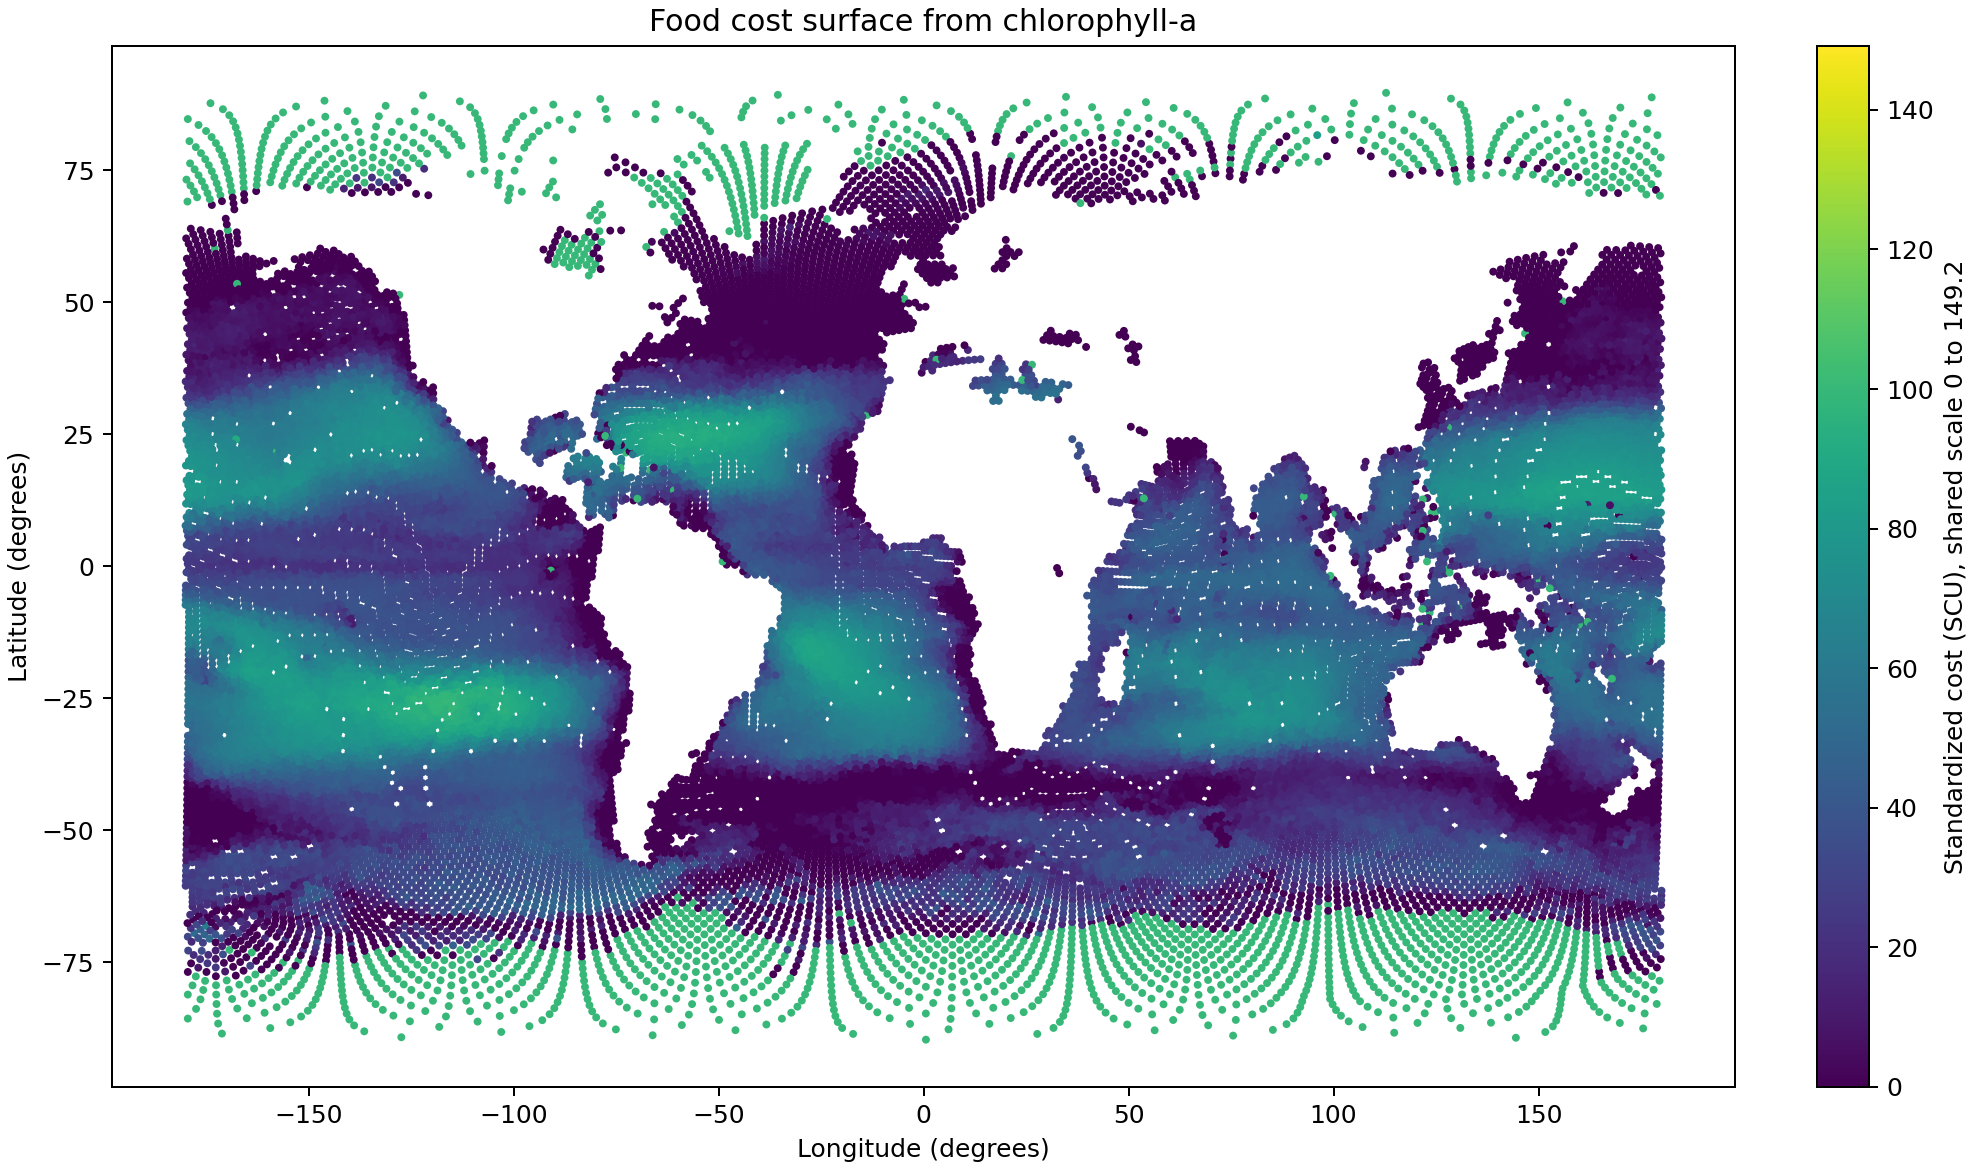
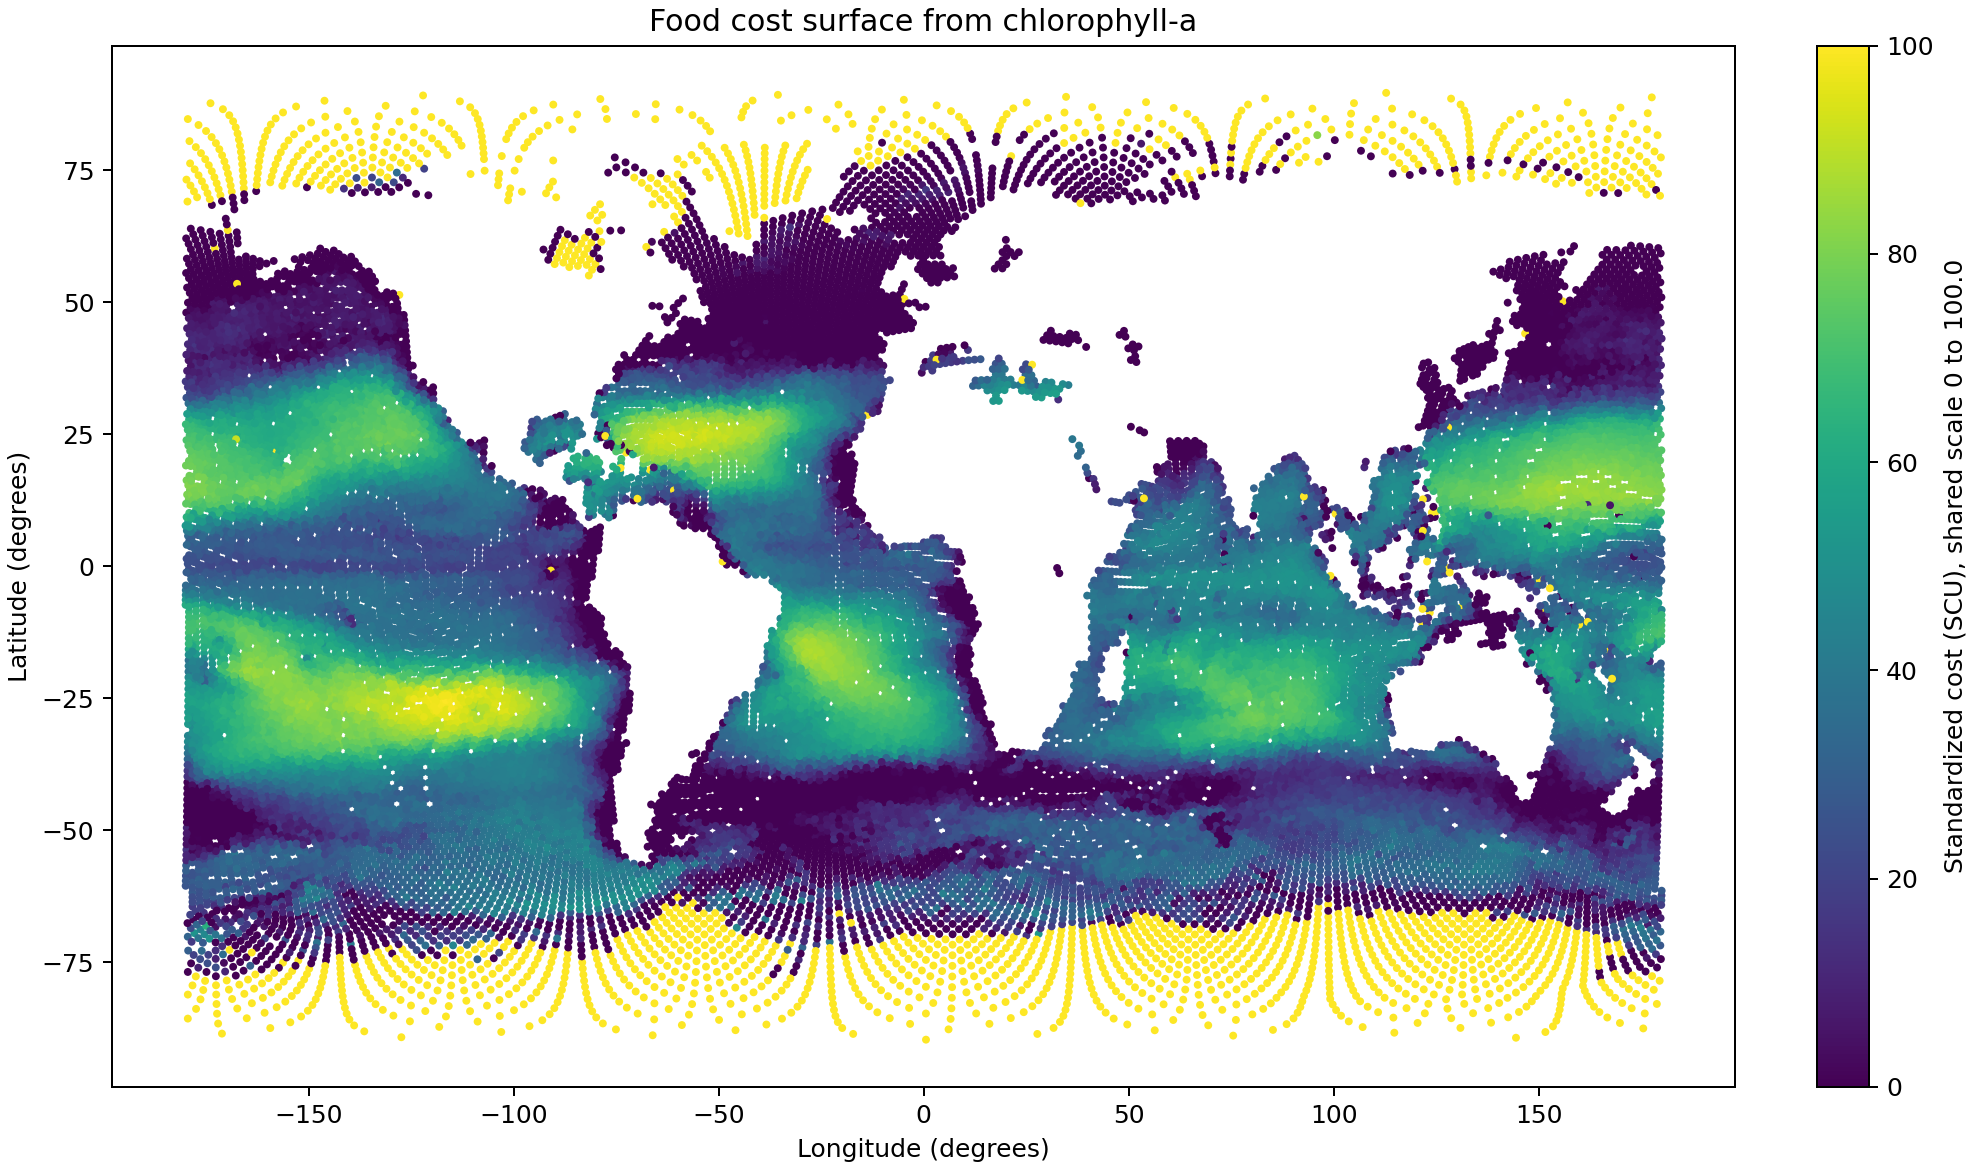
Add directional distance diagnostic and P99 map scaling

diff --git a/src/scripts/11_compute_h3_cost_components.py b/src/scripts/11_compute_h3_cost_components.py
@@ -37,10 +37,12 @@ ENV_PATH = PROJECT_ROOT / "data" / "processed" / "grids" / "h3_environment_res3.
 OUTPUT_PATH = PROJECT_ROOT / "data" / "processed" / "grids" / "h3_edge_cost_components_res3.csv"
 SUMMARY_PATH = PROJECT_ROOT / "results" / "tables" / "11_compute_h3_cost_components_summary.csv"
 EXAMPLE_PATH = PROJECT_ROOT / "results" / "tables" / "11_compute_h3_cost_components_example_rows.csv"
+DIRECTIONAL_DISTANCE_PATH = PROJECT_ROOT / "results" / "tables" / "11_directional_edge_distance_summary.csv"
 REPORT_PATH = PROJECT_ROOT / "results" / "reports" / "11_compute-h3-cost-components.md"
 RAW_HIST_PATH = PROJECT_ROOT / "results" / "figures" / "11_raw_component_histograms.png"
 STD_HIST_PATH = PROJECT_ROOT / "results" / "figures" / "11_standardized_component_histograms.png"
 SCATTER_PATH = PROJECT_ROOT / "results" / "figures" / "11_wind_vs_crosswind_scatter.png"
+DIRECTIONAL_DISTANCE_FIGURE_PATH = PROJECT_ROOT / "results" / "figures" / "11_directional_edge_distance_by_bearing.png"
 MAP_WIND_PATH = PROJECT_ROOT / "results" / "figures" / "11_map_parallel_wind_cost_northward.png"
 MAP_CROSSWIND_PATH = PROJECT_ROOT / "results" / "figures" / "11_map_crosswind_cost_northward.png"
 MAP_DISTANCE_PATH = PROJECT_ROOT / "results" / "figures" / "11_map_distance_cost.png"
@@ -134,6 +136,22 @@ def select_northward_edge_distance(edge_df: pd.DataFrame) -> pd.Series:
     return pd.Series(best_north["edge_distance_km"].to_numpy(), index=best_north["source_h3"].to_numpy())
 
 
+def summarize_directional_distance(edge_df: pd.DataFrame) -> pd.DataFrame:
+    bearing_labels = ["N", "NE", "E", "SE", "S", "SW", "W", "NW"]
+    sector = ((edge_df["edge_bearing_deg"] + 22.5) % 360 // 45).astype(int)
+    out = edge_df[["edge_bearing_deg", "edge_distance_km", "source_lat"]].copy()
+    out["bearing_sector"] = [bearing_labels[i] for i in sector]
+    out["latitude_band"] = (np.floor(out["source_lat"] / 10) * 10).astype(int)
+
+    summary = (
+        out.groupby(["latitude_band", "bearing_sector"])["edge_distance_km"]
+        .agg(["count", "mean", "median", "min", "max"])
+        .reset_index()
+        .sort_values(["latitude_band", "bearing_sector"])
+    )
+    return summary
+
+
 def main() -> None:
     df = pd.read_csv(EDGE_ENV_PATH)
     env = pd.read_csv(ENV_PATH)
@@ -185,6 +203,9 @@ def main() -> None:
     pd.DataFrame(summary_rows).to_csv(SUMMARY_PATH, index=False)
     out.head(40).to_csv(EXAMPLE_PATH, index=False)
 
+    directional_distance = summarize_directional_distance(out)
+    directional_distance.to_csv(DIRECTIONAL_DISTANCE_PATH, index=False)
+
     fig, axes = plt.subplots(2, 2, figsize=(10, 7), constrained_layout=True)
     for ax, col, title in zip(axes.ravel(), ["parallel_wind_cost_raw", "crosswind_cost_raw", "distance_cost_raw", "food_cost_raw"], ["Raw parallel wind cost", "Raw crosswind cost", "Raw distance cost", "Raw food cost"]):
         ax.hist(out[col].dropna(), bins=40, alpha=0.8)
@@ -210,6 +231,16 @@ def main() -> None:
     ax.set_xlabel("w_cost")
     ax.set_ylabel("c_cost")
     fig.savefig(SCATTER_PATH, dpi=150)
+    plt.close(fig)
+
+    fig, ax = plt.subplots(figsize=(10, 5.5), constrained_layout=True)
+    for label, group in directional_distance.groupby("bearing_sector"):
+        ax.plot(group["latitude_band"], group["mean"], marker="o", linewidth=1.5, label=label)
+    ax.set_title("Mean edge distance by bearing sector and latitude band")
+    ax.set_xlabel("Latitude band (degrees)")
+    ax.set_ylabel("Mean edge distance (km)")
+    ax.legend(title="Bearing sector", ncol=4, fontsize=8)
+    fig.savefig(DIRECTIONAL_DISTANCE_FIGURE_PATH, dpi=160)
     plt.close(fig)
 
     # Component maps at cell level. For visualization, use the wind footprint as the support mask.
@@ -242,7 +273,7 @@ def main() -> None:
         env_map.loc[~env_map["has_wind_support"], col] = np.nan
 
     map_max = float(
-        np.nanmax(
+        np.nanpercentile(
             env_map[
                 [
                     "parallel_wind_cost_northward_std",
@@ -250,7 +281,8 @@ def main() -> None:
                     "distance_cost_std",
                     "food_cost_std",
                 ]
-            ].to_numpy()
+            ].to_numpy(),
+            99,
         )
     )
 
@@ -323,7 +355,7 @@ Audit values:
 - zero or non-positive chlorophyll cells in H3 table: **{zero_chla_count}**
 - positive chlorophyll floor used for the log transform: **{positive_floor:.8f}**
 - cells outside the common wind-supported map footprint: **{missing_support_count}**
-- shared map color scale maximum: **{map_max:.3f} SCU**
+- shared map color scale maximum (P99 cap across displayed map layers): **{map_max:.3f} SCU**
 
 ## Method
 - compute directional edge costs for parallel wind, crosswind, true distance, and food
@@ -332,7 +364,8 @@ Audit values:
 - for the two wind component maps, assume a bird flying in a straight northward direction everywhere
 - for the distance map, assign to each cell the true distance of the outgoing edge whose bearing is closest to north
 - for visualization only, use the wind-data footprint as a common support mask across all four maps so unsupported cells are not mistaken for valid low or high costs
-- apply one shared color scale across all four maps, starting at 0 and ending at the maximum standardized cost present among the displayed map layers
+- apply one shared color scale across all four maps, starting at 0 and ending at the shared P99 of the displayed standardized map values
+- summarize edge distance by bearing sector and latitude band to check whether visible distance-map patterns reflect real directional anisotropy in the graph
 
 ## Key formulas used
 - movement direction comes from the edge bearing for the edge-level table
@@ -352,6 +385,7 @@ Audit values:
   - `results/figures/11_raw_component_histograms.png`
   - `results/figures/11_standardized_component_histograms.png`
   - `results/figures/11_wind_vs_crosswind_scatter.png`
+  - `results/figures/11_directional_edge_distance_by_bearing.png`
   - `results/figures/11_map_parallel_wind_cost_northward.png`
   - `results/figures/11_map_crosswind_cost_northward.png`
   - `results/figures/11_map_distance_cost.png`
@@ -364,6 +398,8 @@ Audit values:
 ![Standardized component histograms](../figures/11_standardized_component_histograms.png)
 
 ![Wind vs crosswind standardized costs](../figures/11_wind_vs_crosswind_scatter.png)
+
+![Directional edge distance by bearing](../figures/11_directional_edge_distance_by_bearing.png)
 
 ![Parallel wind cost map](../figures/11_map_parallel_wind_cost_northward.png)
 
@@ -385,11 +421,14 @@ For the distance map, each cell is assigned the true distance of its outgoing ed
 
 The pole issue in the earlier food map was not something I was happy with. It mixed genuinely poor-food cells with cells that simply lie outside the shared environmental support. Using the wind footprint as a visualization mask is the right fix for the maps, because it prevents unsupported cells from being visually interpreted as real food-cost values.
 
+The directional distance diagnostic helps interpret the odd blue corridor patterns in the northward distance map. Those patterns are partly a consequence of selecting a single outgoing edge per cell for display, but the bearing-by-latitude summary lets us check whether there is also real directional variation in edge distances in the H3 graph.
+
 ## Points to watch
 - the distance component in the routing model still represents true H3 edge length, which is an intentional refinement relative to the legacy constant-per-step distance term
 - the mapped northward distance surface is a separate diagnostic layer for interpretability, based on a real outgoing northward edge per cell
 - the common wind-footprint mask is a visualization choice for consistency and honesty across maps, not yet a modeling exclusion rule
-- the shared color scale makes map-to-map magnitude comparisons easier, but it also compresses contrast in components whose ranges are naturally narrower; that tradeoff is worth it here because you explicitly want comparability
+- the shared P99-capped color scale makes map-to-map magnitude comparisons easier while preserving more contrast than a raw-maximum scale
+- if the directional distance summary shows strong systematic bearing effects, we should keep that in mind when interpreting later Dijkstra behavior
 - the legacy constant distance reference extracted from the standardized wind term is **{legacy_ref:.3f}**, which provides a direct bridge back to the earlier formulation
 - the visual wind maps are diagnostic surfaces, not replacements for the directional edge-level calculations
 

diff --git a/results/reports/11_compute-h3-cost-components.md b/results/reports/11_compute-h3-cost-components.md
@@ -26,7 +26,7 @@ Audit values:
 - zero or non-positive chlorophyll cells in H3 table: **1869**
 - positive chlorophyll floor used for the log transform: **0.02446900**
 - cells outside the common wind-supported map footprint: **11633**
-- shared map color scale maximum: **149.219 SCU**
+- shared map color scale maximum (P99 cap across displayed map layers): **100.000 SCU**
 
 ## Method
 - compute directional edge costs for parallel wind, crosswind, true distance, and food
@@ -35,7 +35,8 @@ Audit values:
 - for the two wind component maps, assume a bird flying in a straight northward direction everywhere
 - for the distance map, assign to each cell the true distance of the outgoing edge whose bearing is closest to north
 - for visualization only, use the wind-data footprint as a common support mask across all four maps so unsupported cells are not mistaken for valid low or high costs
-- apply one shared color scale across all four maps, starting at 0 and ending at the maximum standardized cost present among the displayed map layers
+- apply one shared color scale across all four maps, starting at 0 and ending at the shared P99 of the displayed standardized map values
+- summarize edge distance by bearing sector and latitude band to check whether visible distance-map patterns reflect real directional anisotropy in the graph
 
 ## Key formulas used
 - movement direction comes from the edge bearing for the edge-level table
@@ -55,6 +56,7 @@ Audit values:
   - `results/figures/11_raw_component_histograms.png`
   - `results/figures/11_standardized_component_histograms.png`
   - `results/figures/11_wind_vs_crosswind_scatter.png`
+  - `results/figures/11_directional_edge_distance_by_bearing.png`
   - `results/figures/11_map_parallel_wind_cost_northward.png`
   - `results/figures/11_map_crosswind_cost_northward.png`
   - `results/figures/11_map_distance_cost.png`
@@ -67,6 +69,8 @@ Audit values:
 ![Standardized component histograms](../figures/11_standardized_component_histograms.png)
 
 ![Wind vs crosswind standardized costs](../figures/11_wind_vs_crosswind_scatter.png)
+
+![Directional edge distance by bearing](../figures/11_directional_edge_distance_by_bearing.png)
 
 ![Parallel wind cost map](../figures/11_map_parallel_wind_cost_northward.png)
 
@@ -88,11 +92,14 @@ For the distance map, each cell is assigned the true distance of its outgoing ed
 
 The pole issue in the earlier food map was not something I was happy with. It mixed genuinely poor-food cells with cells that simply lie outside the shared environmental support. Using the wind footprint as a visualization mask is the right fix for the maps, because it prevents unsupported cells from being visually interpreted as real food-cost values.
 
+The directional distance diagnostic helps interpret the odd blue corridor patterns in the northward distance map. Those patterns are partly a consequence of selecting a single outgoing edge per cell for display, but the bearing-by-latitude summary lets us check whether there is also real directional variation in edge distances in the H3 graph.
+
 ## Points to watch
 - the distance component in the routing model still represents true H3 edge length, which is an intentional refinement relative to the legacy constant-per-step distance term
 - the mapped northward distance surface is a separate diagnostic layer for interpretability, based on a real outgoing northward edge per cell
 - the common wind-footprint mask is a visualization choice for consistency and honesty across maps, not yet a modeling exclusion rule
-- the shared color scale makes map-to-map magnitude comparisons easier, but it also compresses contrast in components whose ranges are naturally narrower; that tradeoff is worth it here because you explicitly want comparability
+- the shared P99-capped color scale makes map-to-map magnitude comparisons easier while preserving more contrast than a raw-maximum scale
+- if the directional distance summary shows strong systematic bearing effects, we should keep that in mind when interpreting later Dijkstra behavior
 - the legacy constant distance reference extracted from the standardized wind term is **49.999**, which provides a direct bridge back to the earlier formulation
 - the visual wind maps are diagnostic surfaces, not replacements for the directional edge-level calculations
 
